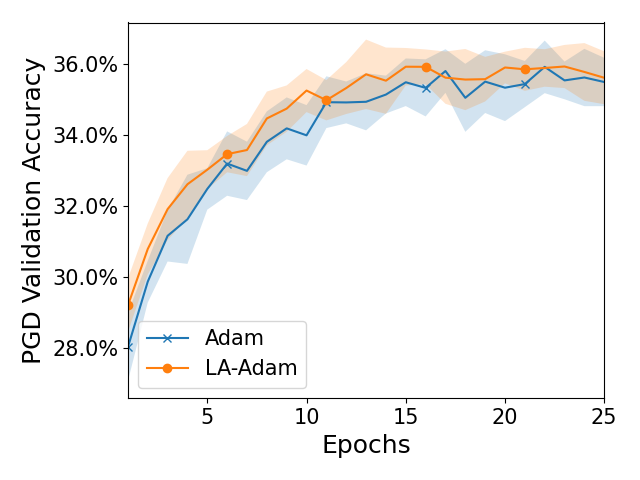
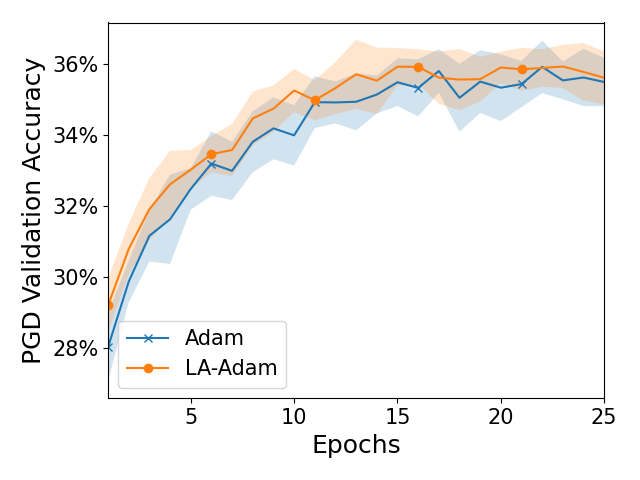
reformat y axis CIFAR-10

diff --git a/results/result_eval.py b/results/result_eval.py
@@ -8,7 +8,7 @@ from pathlib import Path
 from Utils.visualization_utils import tsplot
 markers=('o', 'x', '^', '<', '>', '*', 'h', 'H', 'D', 'd', 'P', 'X', '8', 's', 'p')
 
-dataset = 'MNIST'
+dataset = 'CIFAR10'
 attack = 'pgd'
 
 if attack is None:
